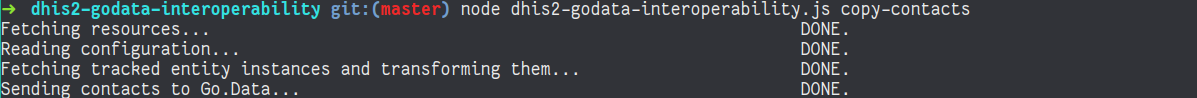
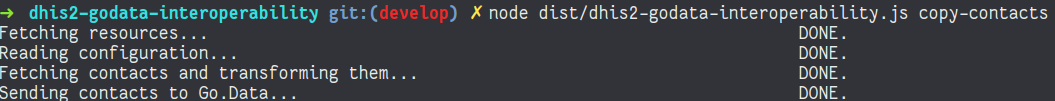
Updated documentation and configuration

diff --git a/src/config/config.dev.js b/src/config/config.dev.js
@@ -1,22 +1,25 @@
 
+// NOTE: This credentials are just the ones use with local instances
+// of the seriveces and just for development purposes. If you are using
+// this scripts as an end user, please use the config.js configuration file instead.
 export default {
   GoDataAPIConfig: {
-    baseURL: 'http://localhost:8000/api',
+    baseURL: 'BASE_URL',
     credentials: {
-      email: 'test@who.int',
-      password: '123412341234'
+      email: 'EMAIL',
+      password: 'PASSWORD'
     },
     debug: true
   },
   DHIS2APIConfig: {
-    baseURL: 'https://covid19.dhis2.org/demo/api',
+    baseURL: 'BASE_URL',
     credentials: {
-      user: 'COVID',
-      password: 'StopCovid19!'
+      user: 'USER',
+      password: 'PASSWORD'
     },
     debug: true
   },
-  countries: [ 'Trainingland' ],
-  rootID: 'GD7TowwI46c'
+  countries: [ 'COUNTRY_NAME' ],
+  rootID: 'ROOT_ORGANISATION_UNIT_ID'
 }
 

diff --git a/src/actions/location.js b/src/actions/location.js
@@ -14,7 +14,8 @@ const stringify = JSON.stringify.bind(JSON)
 // (if no outputFile is provided, the JSON file is automatically downloaded) and in the
 // command line (if an outputFile is provided, the JSON file is created with that name).
 export const copyOrganisationUnits = (dhis2, godata, config, _) => async (outputFile) => {
-  _ = dependencies({ fs, stringify, encodeURIComponent, document, logAction, logDone }, _)
+  _ = dependencies({ fs, stringify, encodeURIComponent, logAction, logDone }, _)
+  _.document = _.document || (typeof document === 'undefined' ? undefined : document)
 
   _.logAction('Fetching organisation units')
   const organisationUnits = await dhis2.getOrganisationUnitsFromParent(config.rootID)

diff --git a/src/config/config.js b/src/config/config.js
@@ -1,21 +1,20 @@
 
 export default {
   GoDataAPIConfig: {
-    baseURL: 'http://localhost:8000/api',
+    baseURL: 'BASE_URL',
     credentials: {
-      email: 'test@who.int',
-      password: '123412341234'
+      email: 'EMAIL',
+      password: 'PASSWORD'
     }
   },
   DHIS2APIConfig: {
-    //baseURL: 'https://covid19.dhis2.org/demo/api',
-    baseURL: 'http://covid19.dhis2.org/dev/api',
+    baseURL: 'BASE_URL',
     credentials: {
-      user: 'COVID',
-      password: 'StopCovid19!'
+      user: 'EMAIL',
+      password: 'PASSWORD'
     }
   },
-  countries: [ 'Trainingland' ],
-  rootID: 'GD7TowwI46c'
+  countries: [ 'COUNTRY_NAME' ],
+  rootID: 'ROOT_ORGANISATION_UNIT_ID'
 }
 

diff --git a/src/index.js b/src/index.js
@@ -10,3 +10,5 @@ export {
   queryGoData
 } from './actions'
 
+export { default as config } from './config'
+

diff --git a/README.md b/README.md
@@ -1,5 +1,5 @@
-
 # dhis2-godata-interoperability
+
 Scripts to exchange data between dhis2 and Go.Data instances.
 
 ![Architecture summary](./images/overview.png)
@@ -13,30 +13,39 @@ Scripts to exchange data between dhis2 and Go.Data instances.
 + Clone the repository or download it as a zip file.
 + In a terminal, install the dependencies by executing ```npm install``` inside the project folder.
 + Configure the script (more on this below).
++ Compile the scripts by executing ```npm run prepare``` (this will create the *dist* folder with the scripts ready to be executed)
 
 ## Actions
 
 The functionallity of the package is splitted among different steps.
 
-+ **node dhis2-godata-interoperability.js copy-organisation-units <dest>**: get all organisation units from DHIS2, transforms them to fit Go.Data's schema and saves them hierarchally in a json file in <dest>.
++ **node dist/dhis2-godata-interoperability.js copy-metadata**: transfer additional metadata (e.g.: multiple options fields) that is not transfered in the following steps.
+  
+  ![](/home/pablo/git/covid-upc/dhis2-godata-interoperability/images/copy-metadata.png)
 
-![Screenshot of copy-organisation-units log](./images/copy-org-units.png)
++ **node dist/dhis2-godata-interoperability.js copy-organisation-units <dest>**: get all organisation units from DHIS2, transforms them to fit Go.Data's schema and saves them hierarchally in a json file in <dest>.
+  
+  ![](/home/pablo/git/covid-upc/dhis2-godata-interoperability/images/copy-org-units.png)
 
-+ **node dhis2-godata-interoperability.js create-outbreaks**: Create Go.Data outbreaks based on the organisation units and tracked entities of the DHIS2 instance. There are two modes avaliable that can be configured in the configuration file: *GROUP* mode and *EXPAND* mode. *EXPAND* mode create one outbreak for each organisation unit with tracked entities, while *GROUP* mode only creates one outbreak for each group of organisation units under a certain administrative level (that can be configured in the configuration file). *GROUP* mode is the default value with a grouping level of 0 (i.e.: only one outbreak is going to be created in most cases).
++ **node dist/dhis2-godata-interoperability.js create-outbreaks**: Create Go.Data outbreaks based on the organisation units and tracked entities of the DHIS2 instance. There are two modes avaliable that can be configured in the configuration file: *GROUP* mode and *EXPAND* mode. *EXPAND* mode create one outbreak for each organisation unit with tracked entities, while *GROUP* mode only creates one outbreak for each group of organisation units under a certain administrative level (that can be configured in the configuration file). *GROUP* mode is the default value with a grouping level of 0 (i.e.: only one outbreak is going to be created in most cases).
+  
+  ![](/home/pablo/git/covid-upc/dhis2-godata-interoperability/images/create-outbreaks.png)
 
-![Screenshot of create-outbreaks log](./images/create-outbreaks.png)
++ **node dist/dhis2-godata-interoperability.js copy-cases**: transfers tracked entities from DHIS2 to Go.Data, transforming the data to fit Go.Data's schema and assigning an outbreak automatically.
+  
+  ![](/home/pablo/git/covid-upc/dhis2-godata-interoperability/images/copy-cases.png)
 
-+ **node dhis2-godata-interoperability.js copy-cases**: transfers tracked entities from DHIS2 to Go.Data, transforming the data to fit Go.Data's schema and assigning an outbreak automatically.
++ **node dist/dhis2-godata-interoperability.js copy-contacts**: transfers contacts from DHIS2 to Go.Data, adding aditional persons and the relationships among them.
+  
+  ![](/home/pablo/git/covid-upc/dhis2-godata-interoperability/images/copy-contacts.png)
 
-![Screenshot of copy-cases log](./images/copy-cases.png)
-
-+ **node dhis2-godata-interoperability.js copy-contacts**: transfers contacts from DHIS2 to Go.Data, adding aditional persons and the relationships among them.
-
-![Screenshot of copy-contacts log](./images/copy-contacts.png)
++ **node dist/dhis2-godata-interoperability.js full-transfer**: executes all the steps in order. (*NOTE: the only step that still has to be executed manually is the organisation unit transfer, since the locations have to be imported into Go.Data before the other steps are executed. This is not very convenient and is due to an issue with the creation of locations through Go.Data's API; it is going to be changed in the future as soon as possible*.)
+  
+  ![](/home/pablo/git/covid-upc/dhis2-godata-interoperability/images/full-transfer.png)
 
 ## Configuration
 
-In order to use the dhis2-godata-interoperability script, a couple of things have to be configured in ./config/config.js (some of them are mandatory, like the connection to the APIs, and others have default values that can be used if there's no need for changing them).
+In order to use the dhis2-godata-interoperability script, a couple of things have to be configured in ./config/config.js, or ./config/config.dev.js for development/testing (some of them are mandatory, like the connection to the APIs, and others have default values that can be used if there's no need for changing them).
 
 + Connections to APIs: the first think that needs to be configured is the connection to both DHIS2 and Go.Data. A base endpoint has to be provided for each service, as well as the credentials needed for the authentication.
 
@@ -58,7 +67,6 @@ module.exports = {
     }
   }
 }
-
 ```
 
 + Organisation units root: mandatory configuration of the organisation unit used as the root for the hierarchal structure. (i.e. the ID of the DHIS2 organisation unit with level 1, which means administrative level 0 in Go.Data)
@@ -76,6 +84,7 @@ module.exports = {
   countries: [ 'Trainingland' ]
 }
 ```
+
 ## Testing
 
 ```{bash}
